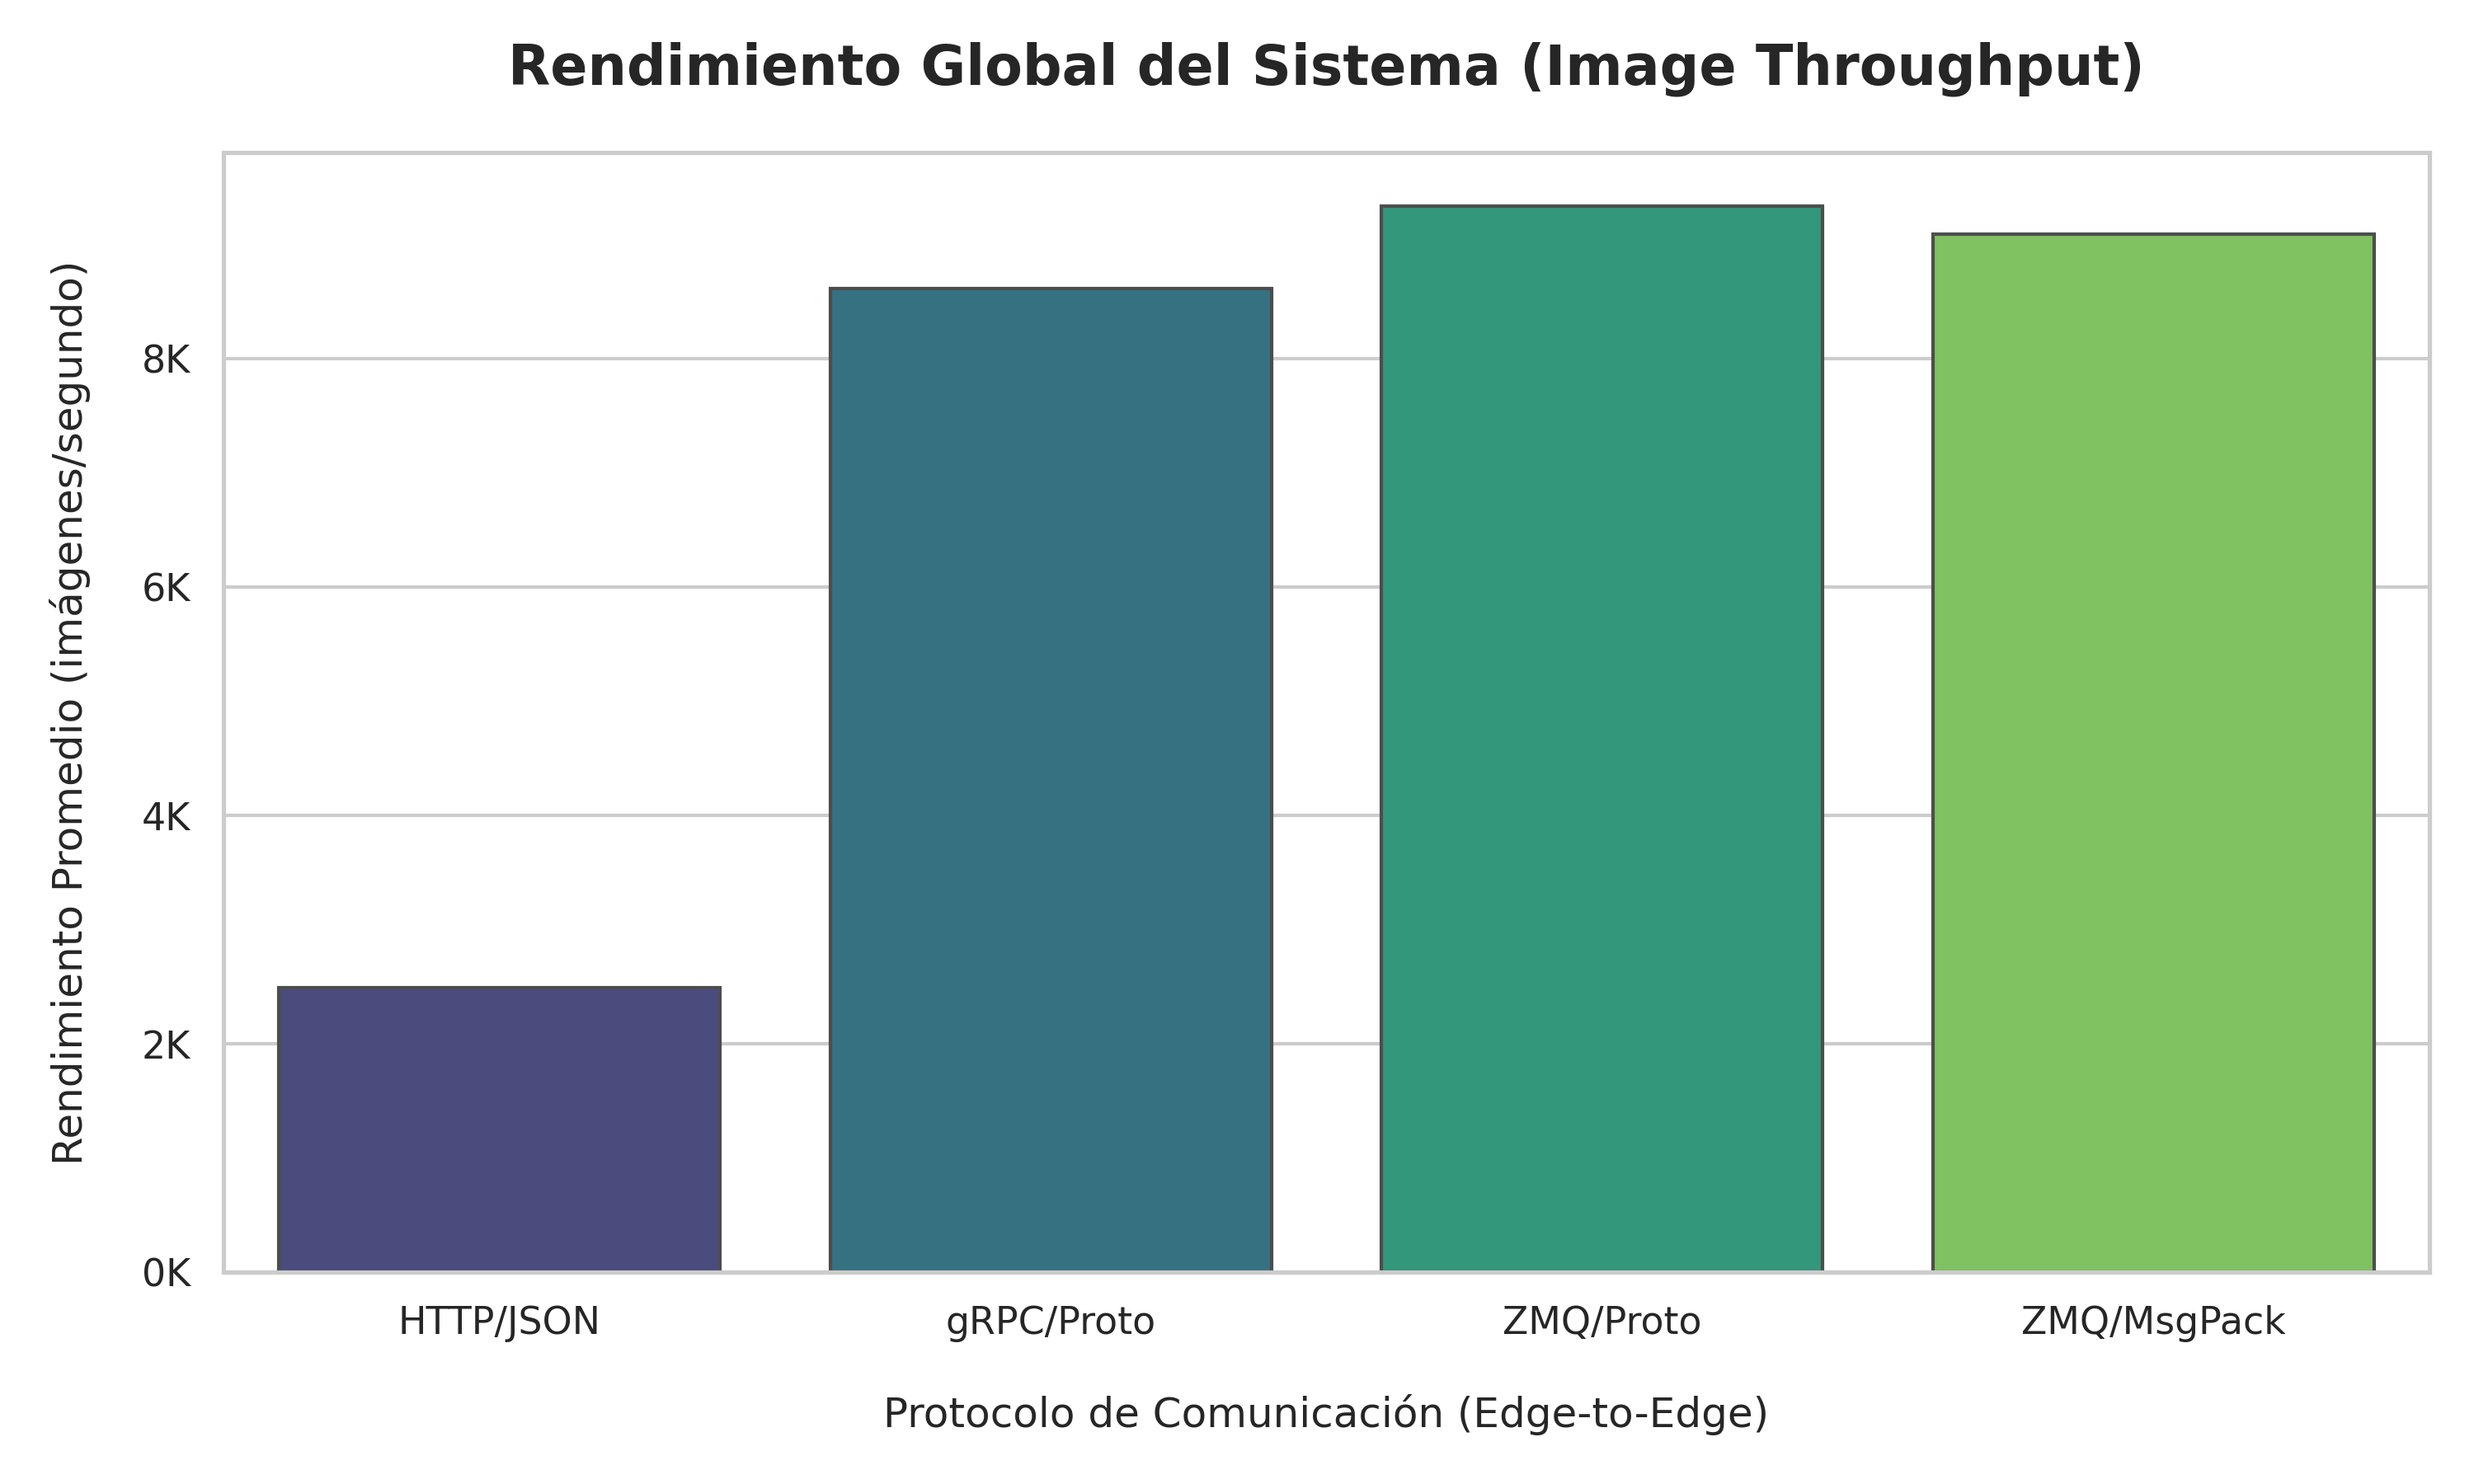
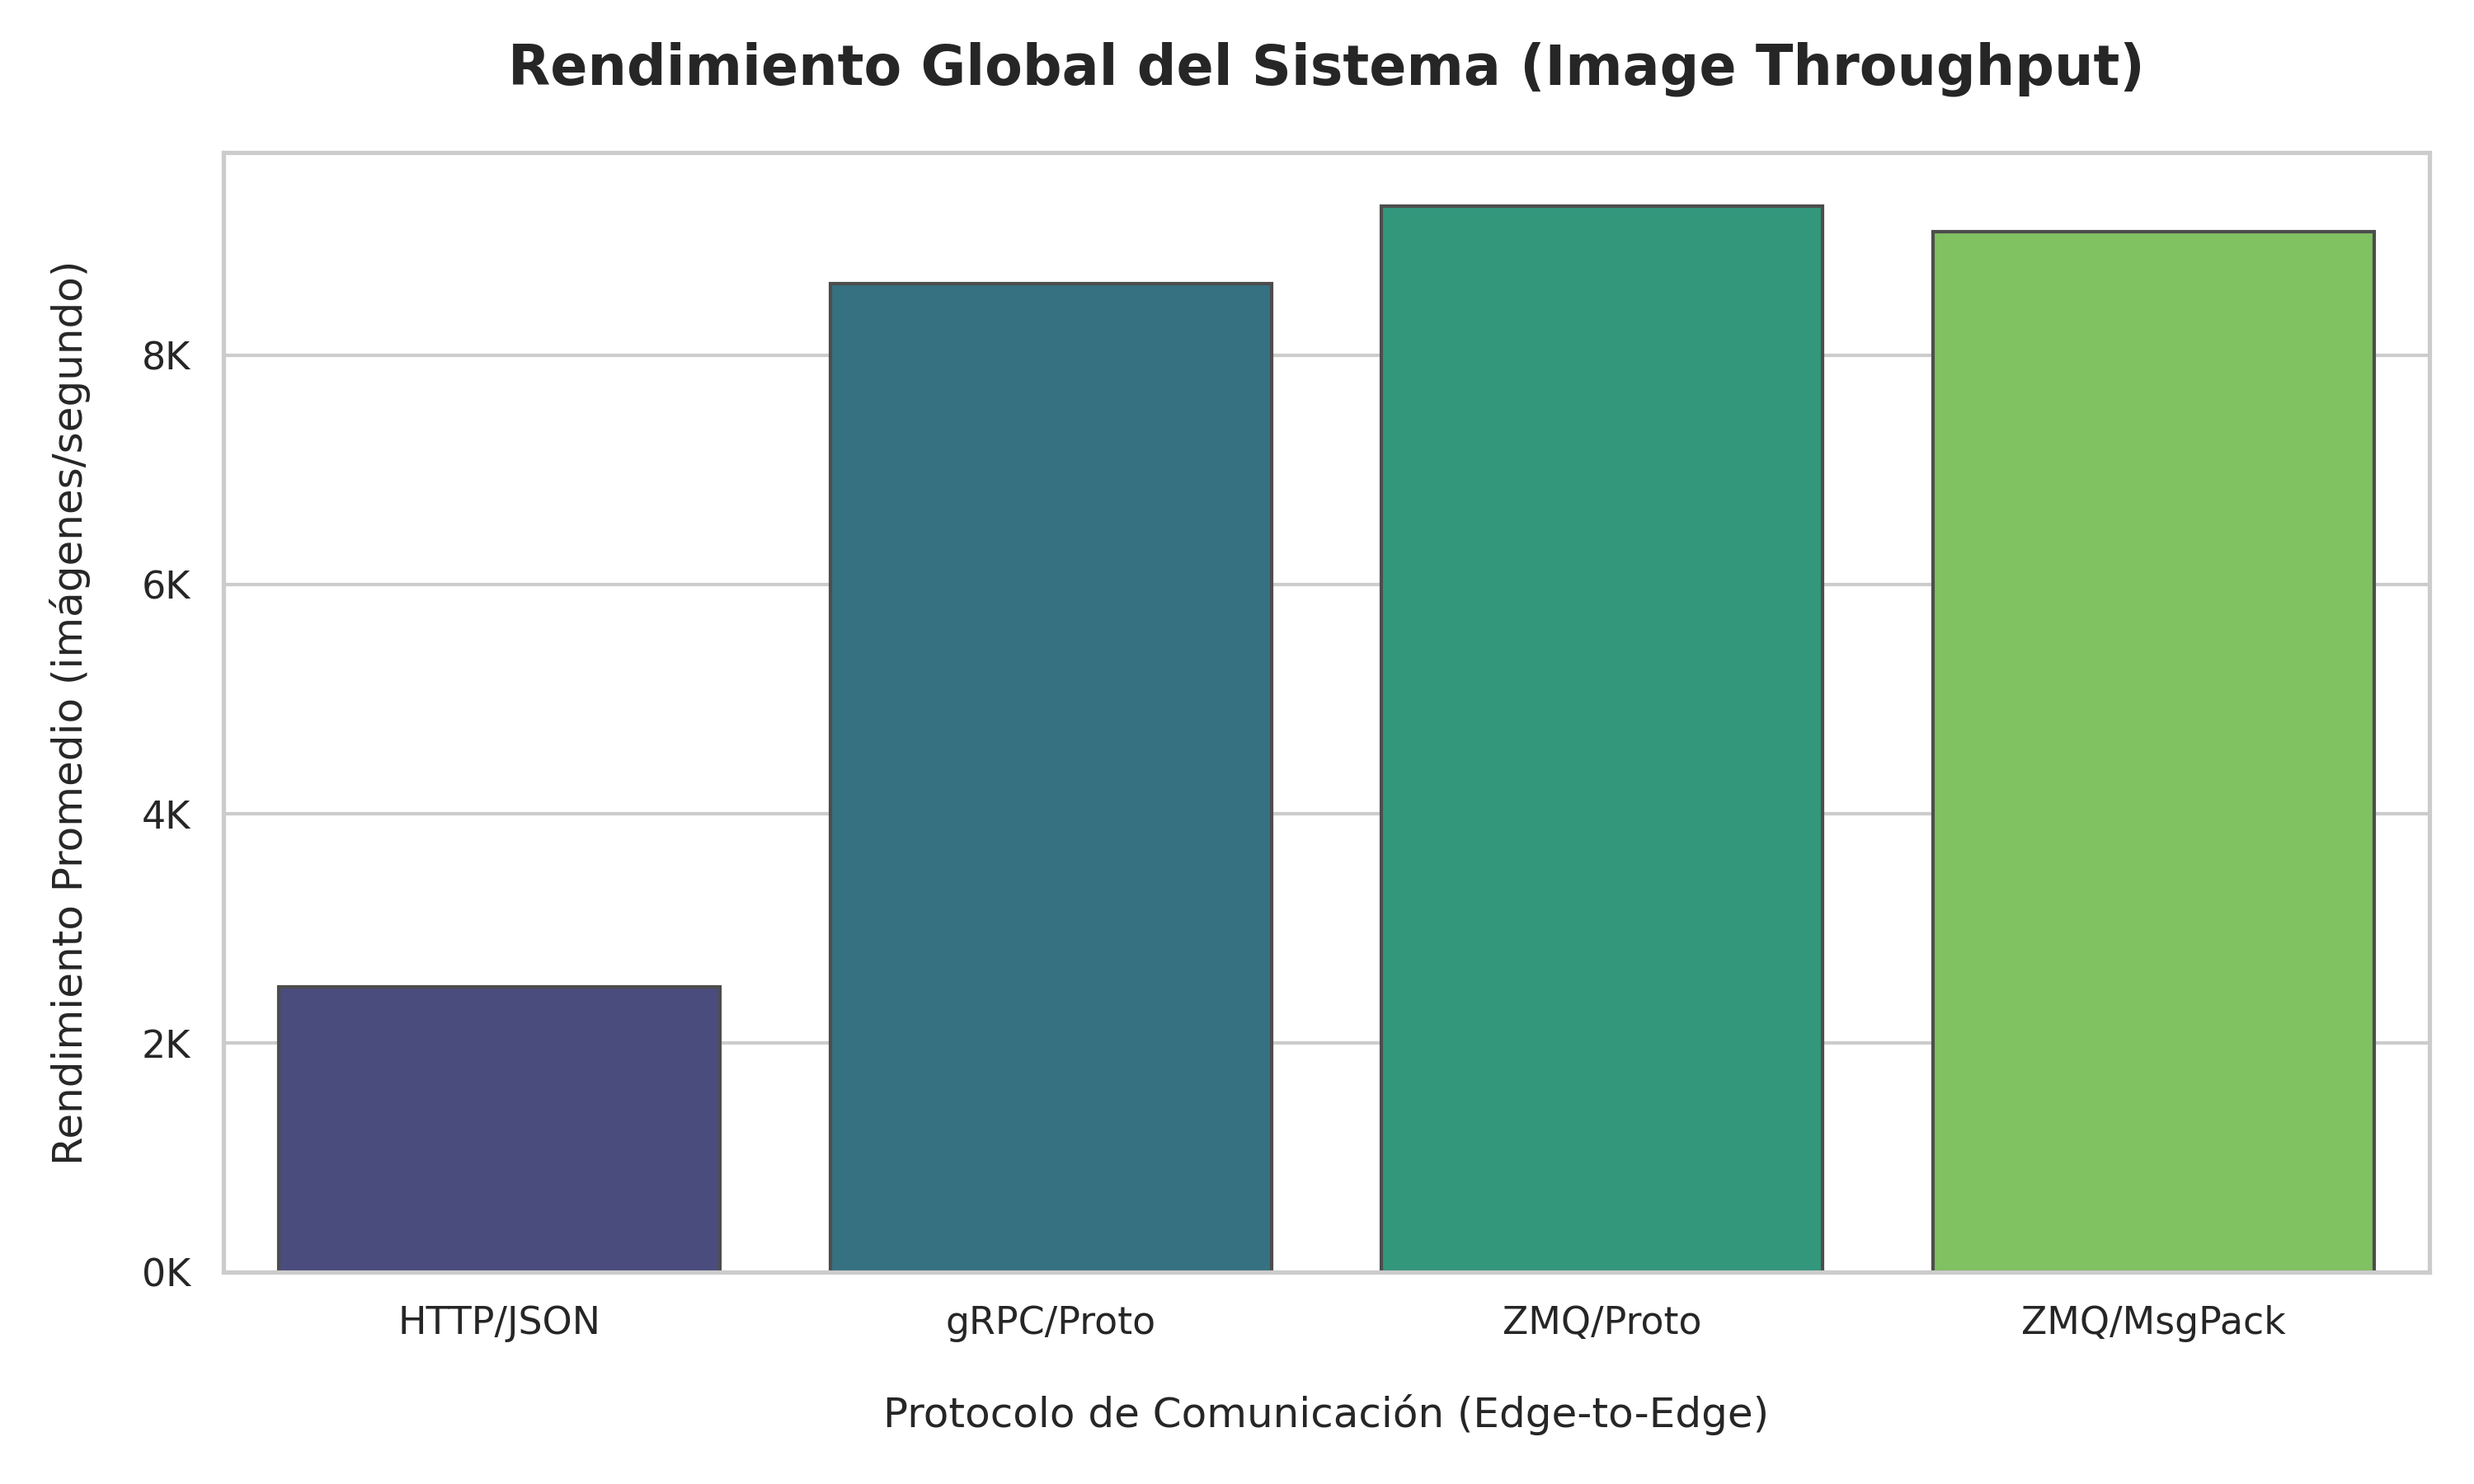
refactor: update benchmark results and visualizations for Systemd and Kubernetes with new test data

diff --git a/kubernetes/3-benchmarks-results/resultados-tablas.md b/kubernetes/3-benchmarks-results/resultados-tablas.md
@@ -1,90 +1,90 @@
 # Resultados Consolidados del Proyecto
 > **Nota:** Estas tablas representan la **media histórica total** de todas las ejecuciones almacenadas en el Data Lake (`resultados-globales.csv`).
 
-## Protocolo: 01-http-json (Basado en 5 tests históricos)
+## Protocolo: 01-http-json (Basado en 6 tests históricos)
 ### Infraestructura
 | Métrica | Valor Promedio |
 |---|---|
-| **T_deploy** | 104.84 s |
-| **Recuperación (MTTR)** | 1672.64 ms |
-| **CPU Reposo** | 1.10 % |
-| **RAM Reposo** | 851.10 MB |
+| **T_deploy** | 121.34 s |
+| **Recuperación (MTTR)** | 1602.39 ms |
+| **CPU Reposo** | 1.08 % |
+| **RAM Reposo** | 845.42 MB |
 
 ### Rendimiento de Red (Estrés)
 | Métrica | Valor Promedio |
 |---|---|
-| **T_Total** | 0.99 s |
-| **Throughput** | 2086.61 img/s |
-| **Latencia RTT** | 516.90 ms |
-| **T_Proc Worker** | 503.45 ms |
-| **RAM Máxima** | 337.30 MB |
-| **CPU Máxima** | 138.94 % |
+| **T_Total** | 1.00 s |
+| **Throughput** | 2069.86 img/s |
+| **Latencia RTT** | 523.17 ms |
+| **T_Proc Worker** | 509.95 ms |
+| **RAM Máxima** | 342.80 MB |
+| **CPU Máxima** | 138.17 % |
 | **Payload Red** | 15.59 MB |
 
 ---
 
-## Protocolo: 02-grpc-protobuf (Basado en 5 tests históricos)
+## Protocolo: 02-grpc-protobuf (Basado en 6 tests históricos)
 ### Infraestructura
 | Métrica | Valor Promedio |
 |---|---|
-| **T_deploy** | 131.58 s |
-| **Recuperación (MTTR)** | 1571.98 ms |
-| **CPU Reposo** | 1.00 % |
-| **RAM Reposo** | 849.00 MB |
+| **T_deploy** | 143.68 s |
+| **Recuperación (MTTR)** | 43529.97 ms |
+| **CPU Reposo** | 0.92 % |
+| **RAM Reposo** | 829.33 MB |
 
 ### Rendimiento de Red (Estrés)
 | Métrica | Valor Promedio |
 |---|---|
 | **T_Total** | 0.33 s |
-| **Throughput** | 6358.87 img/s |
-| **Latencia RTT** | 319.32 ms |
-| **T_Proc Worker** | 281.93 ms |
-| **RAM Máxima** | 392.79 MB |
-| **CPU Máxima** | 186.82 % |
+| **Throughput** | 6375.82 img/s |
+| **Latencia RTT** | 318.36 ms |
+| **T_Proc Worker** | 282.04 ms |
+| **RAM Máxima** | 387.57 MB |
+| **CPU Máxima** | 189.11 % |
 | **Payload Red** | 2.99 MB |
 
 ---
 
-## Protocolo: 03-zeromq-protobuf (Basado en 5 tests históricos)
+## Protocolo: 03-zeromq-protobuf (Basado en 6 tests históricos)
 ### Infraestructura
 | Métrica | Valor Promedio |
 |---|---|
-| **T_deploy** | 96.06 s |
-| **Recuperación (MTTR)** | 1643.34 ms |
-| **CPU Reposo** | 1.30 % |
-| **RAM Reposo** | 852.50 MB |
+| **T_deploy** | 93.31 s |
+| **Recuperación (MTTR)** | 1548.16 ms |
+| **CPU Reposo** | 1.17 % |
+| **RAM Reposo** | 850.67 MB |
 
 ### Rendimiento de Red (Estrés)
 | Métrica | Valor Promedio |
 |---|---|
 | **T_Total** | 0.31 s |
-| **Throughput** | 7033.38 img/s |
-| **Latencia RTT** | 263.85 ms |
-| **T_Proc Worker** | 201.72 ms |
-| **RAM Máxima** | 282.18 MB |
-| **CPU Máxima** | 194.28 % |
+| **Throughput** | 6940.48 img/s |
+| **Latencia RTT** | 265.65 ms |
+| **T_Proc Worker** | 202.92 ms |
+| **RAM Máxima** | 281.59 MB |
+| **CPU Máxima** | 193.86 % |
 | **Payload Red** | 2.99 MB |
 
 ---
 
-## Protocolo: 04-zeromq-messagepack (Basado en 5 tests históricos)
+## Protocolo: 04-zeromq-messagepack (Basado en 6 tests históricos)
 ### Infraestructura
 | Métrica | Valor Promedio |
 |---|---|
-| **T_deploy** | 137.91 s |
-| **Recuperación (MTTR)** | 1472.56 ms |
-| **CPU Reposo** | 0.80 % |
-| **RAM Reposo** | 852.00 MB |
+| **T_deploy** | 152.02 s |
+| **Recuperación (MTTR)** | 1561.26 ms |
+| **CPU Reposo** | 0.75 % |
+| **RAM Reposo** | 846.00 MB |
 
 ### Rendimiento de Red (Estrés)
 | Métrica | Valor Promedio |
 |---|---|
-| **T_Total** | 0.33 s |
-| **Throughput** | 6555.69 img/s |
-| **Latencia RTT** | 277.54 ms |
-| **T_Proc Worker** | 203.35 ms |
-| **RAM Máxima** | 275.12 MB |
-| **CPU Máxima** | 196.35 % |
+| **T_Total** | 0.34 s |
+| **Throughput** | 6435.78 img/s |
+| **Latencia RTT** | 280.00 ms |
+| **T_Proc Worker** | 204.46 ms |
+| **RAM Máxima** | 276.63 MB |
+| **CPU Máxima** | 195.38 % |
 | **Payload Red** | 2.99 MB |
 
 ---

diff --git a/systemd/3-benchmarks-results/resultados-tablas.md b/systemd/3-benchmarks-results/resultados-tablas.md
@@ -1,90 +1,90 @@
 # Resultados Consolidados del Proyecto
 > **Nota:** Estas tablas representan la **media histórica total** de todas las ejecuciones almacenadas en el Data Lake (`resultados-globales.csv`).
 
-## Protocolo: 01-http-json (Basado en 5 tests históricos)
+## Protocolo: 01-http-json (Basado en 6 tests históricos)
 ### Infraestructura
 | Métrica | Valor Promedio |
 |---|---|
-| **T_deploy** | 188.01 s |
-| **Recuperación (MTTR)** | 495.75 ms |
-| **CPU Reposo** | 0.10 % |
-| **RAM Reposo** | 734.80 MB |
+| **T_deploy** | 175.26 s |
+| **Recuperación (MTTR)** | 491.53 ms |
+| **CPU Reposo** | 0.08 % |
+| **RAM Reposo** | 729.92 MB |
 
 ### Rendimiento de Red (Estrés)
 | Métrica | Valor Promedio |
 |---|---|
 | **T_Total** | 0.80 s |
-| **Throughput** | 2490.88 img/s |
-| **Latencia RTT** | 415.02 ms |
-| **T_Proc Worker** | 400.53 ms |
-| **RAM Máxima** | 329.22 MB |
-| **CPU Máxima** | 141.60 % |
+| **Throughput** | 2492.71 img/s |
+| **Latencia RTT** | 416.45 ms |
+| **T_Proc Worker** | 402.00 ms |
+| **RAM Máxima** | 329.12 MB |
+| **CPU Máxima** | 141.84 % |
 | **Payload Red** | 15.59 MB |
 
 ---
 
-## Protocolo: 02-grpc-protobuf (Basado en 5 tests históricos)
+## Protocolo: 02-grpc-protobuf (Basado en 6 tests históricos)
 ### Infraestructura
 | Métrica | Valor Promedio |
 |---|---|
-| **T_deploy** | 184.98 s |
-| **Recuperación (MTTR)** | 494.53 ms |
-| **CPU Reposo** | 0.40 % |
-| **RAM Reposo** | 737.10 MB |
+| **T_deploy** | 173.77 s |
+| **Recuperación (MTTR)** | 494.71 ms |
+| **CPU Reposo** | 0.42 % |
+| **RAM Reposo** | 736.92 MB |
 
 ### Rendimiento de Red (Estrés)
 | Métrica | Valor Promedio |
 |---|---|
 | **T_Total** | 0.23 s |
-| **Throughput** | 8608.73 img/s |
-| **Latencia RTT** | 223.53 ms |
-| **T_Proc Worker** | 198.25 ms |
-| **RAM Máxima** | 312.71 MB |
-| **CPU Máxima** | 197.47 % |
+| **Throughput** | 8621.28 img/s |
+| **Latencia RTT** | 223.62 ms |
+| **T_Proc Worker** | 198.63 ms |
+| **RAM Máxima** | 311.62 MB |
+| **CPU Máxima** | 197.20 % |
 | **Payload Red** | 2.99 MB |
 
 ---
 
-## Protocolo: 03-zeromq-protobuf (Basado en 5 tests históricos)
+## Protocolo: 03-zeromq-protobuf (Basado en 6 tests históricos)
 ### Infraestructura
 | Métrica | Valor Promedio |
 |---|---|
-| **T_deploy** | 110.94 s |
-| **Recuperación (MTTR)** | 482.87 ms |
-| **CPU Reposo** | 0.10 % |
-| **RAM Reposo** | 720.10 MB |
+| **T_deploy** | 111.93 s |
+| **Recuperación (MTTR)** | 491.86 ms |
+| **CPU Reposo** | 0.08 % |
+| **RAM Reposo** | 721.08 MB |
 
 ### Rendimiento de Red (Estrés)
 | Métrica | Valor Promedio |
 |---|---|
 | **T_Total** | 0.22 s |
-| **Throughput** | 9333.03 img/s |
-| **Latencia RTT** | 211.57 ms |
-| **T_Proc Worker** | 196.87 ms |
-| **RAM Máxima** | 274.83 MB |
-| **CPU Máxima** | 198.20 % |
+| **Throughput** | 9299.01 img/s |
+| **Latencia RTT** | 212.55 ms |
+| **T_Proc Worker** | 197.79 ms |
+| **RAM Máxima** | 275.61 MB |
+| **CPU Máxima** | 197.11 % |
 | **Payload Red** | 2.99 MB |
 
 ---
 
-## Protocolo: 04-zeromq-messagepack (Basado en 5 tests históricos)
+## Protocolo: 04-zeromq-messagepack (Basado en 6 tests históricos)
 ### Infraestructura
 | Métrica | Valor Promedio |
 |---|---|
-| **T_deploy** | 199.18 s |
-| **Recuperación (MTTR)** | 491.46 ms |
+| **T_deploy** | 199.40 s |
+| **Recuperación (MTTR)** | 483.44 ms |
 | **CPU Reposo** | 0.00 % |
-| **RAM Reposo** | 731.00 MB |
+| **RAM Reposo** | 729.50 MB |
 
 ### Rendimiento de Red (Estrés)
 | Métrica | Valor Promedio |
 |---|---|
 | **T_Total** | 0.22 s |
-| **Throughput** | 9087.91 img/s |
-| **Latencia RTT** | 214.83 ms |
-| **T_Proc Worker** | 198.91 ms |
-| **RAM Máxima** | 281.29 MB |
-| **CPU Máxima** | 196.52 % |
+| **Throughput** | 9079.08 img/s |
+| **Latencia RTT** | 214.71 ms |
+| **T_Proc Worker** | 198.58 ms |
+| **RAM Máxima** | 280.28 MB |
+| **CPU Máxima** | 196.38 % |
 | **Payload Red** | 2.99 MB |
 
 ---
